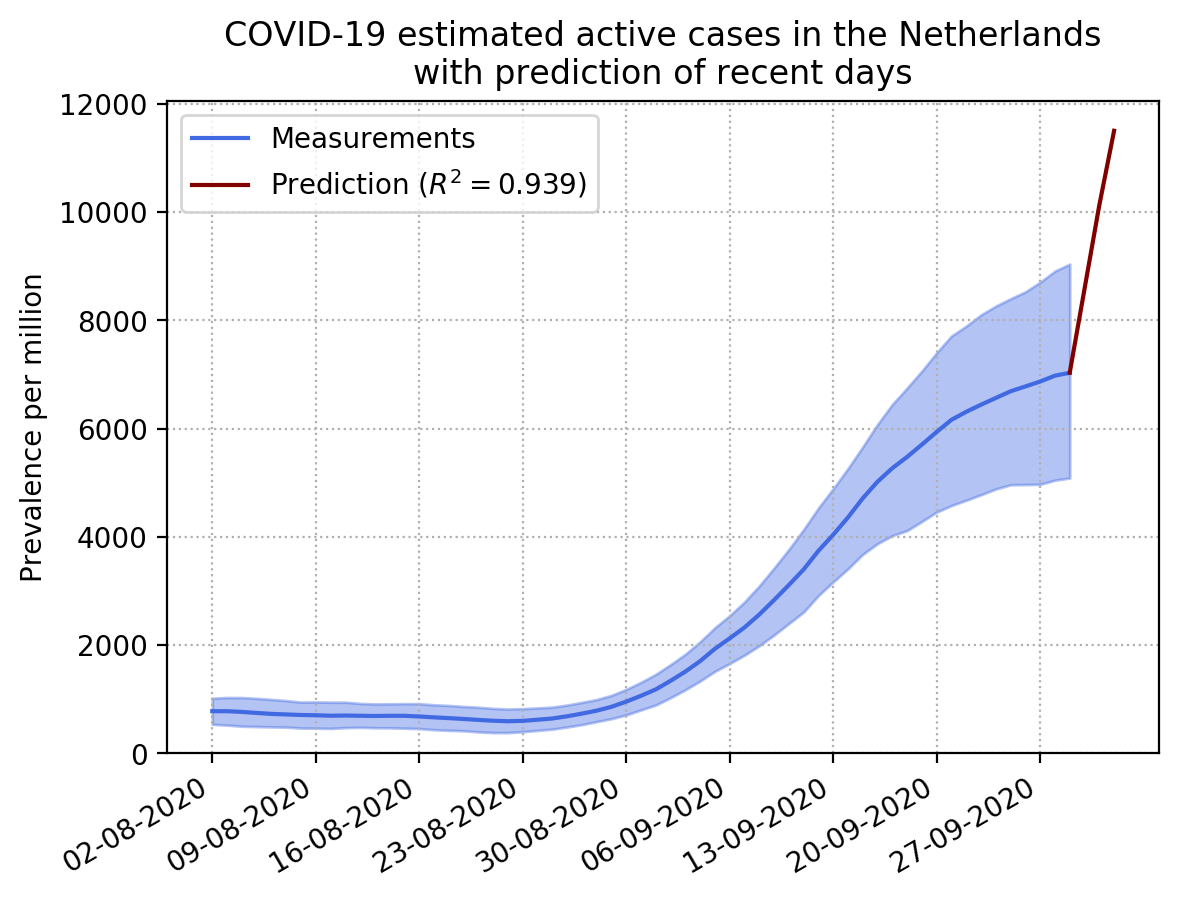
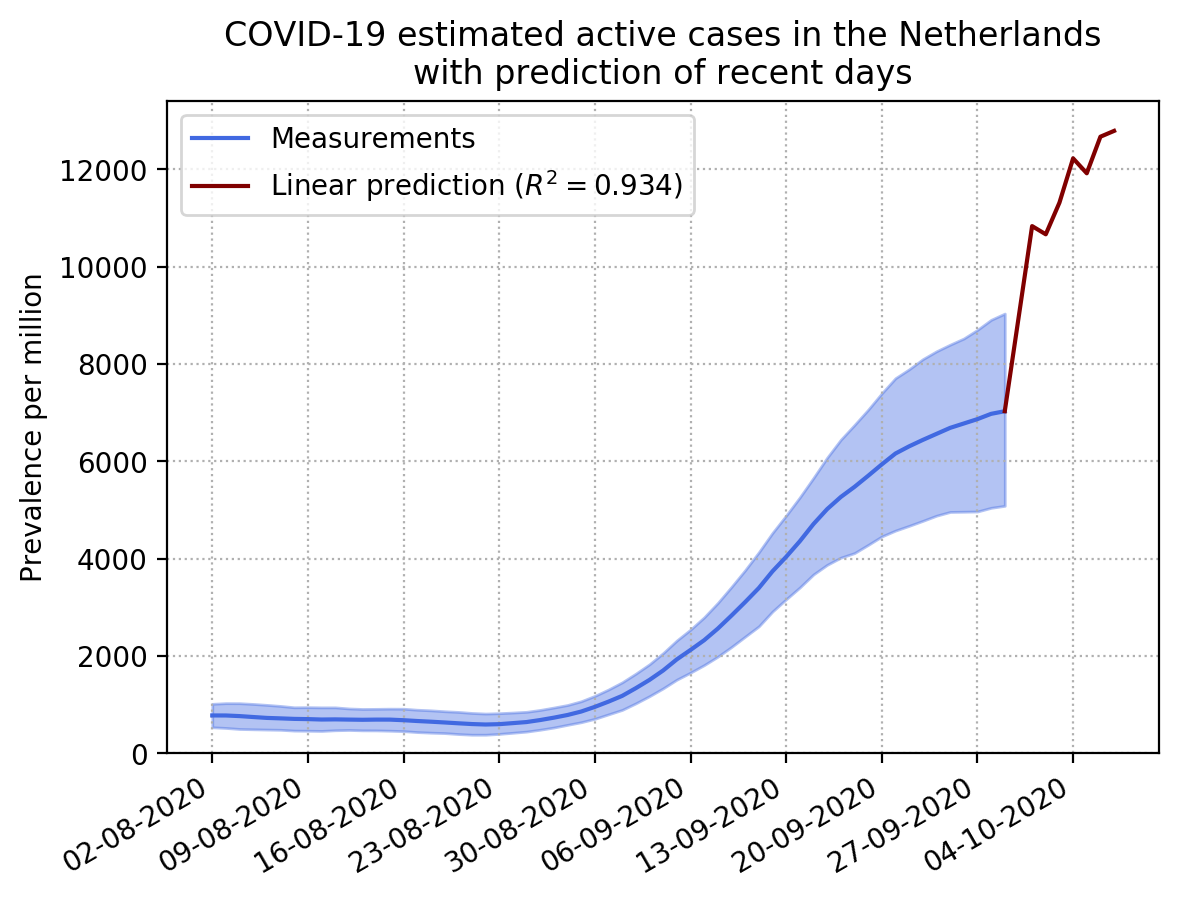
Updated the predictions of the prevalence by using the test positivity ratio

diff --git a/model_coronavirus_supression.py b/model_coronavirus_supression.py
@@ -10,7 +10,7 @@ import urllib.request
 import shutil
 import os, sys
 
-from sklearn.linear_model import Ridge
+from sklearn.linear_model import Ridge, LinearRegression, Lasso
 from sklearn.ensemble import AdaBoostRegressor, RandomForestRegressor
 
 dataloc = './Data/'
@@ -220,7 +220,6 @@ def load_number_of_tests():
 	df_n_tests = df_n_tests.interpolate(method = 'linear')
 
 	return df_n_tests
-
 
 def load_sewage_data(smooth = False, windowsize = 3, shiftdates = False):
 	sewage_url = 'https://data.rivm.nl/covid-19/COVID-19_rioolwaterdata.csv'
@@ -824,6 +823,7 @@ def estimate_recent_prevalence():
 	Estimate the recent prevalence based on the test positivity ratio
 	"""
 	df_daily_covid = load_daily_covid()
+	df_n_tests = load_number_of_tests()
 	df_prevalence, df_R0 = load_prevalence_R0_data()
 	df_sewage = load_sewage_data(smooth = True, shiftdates = False)
 
@@ -834,7 +834,7 @@ def estimate_recent_prevalence():
 
 	### correct for the delay between the onset of symptoms and the result of the test
 	#for source of incubation period, see the readme
-	incubation_period = 8.3 #days
+	incubation_period = 6 #days
 	#test delay determined from anecdotal evidence
 	test_delay = 3 #days
 
@@ -848,6 +848,10 @@ def estimate_recent_prevalence():
 
 	#merge testing and sewage data
 	df_predictors = df_daily_covid.merge(df_sewage[['RNA_per_ml_smooth']], right_index = True, left_index = True)
+	df_predictors = df_predictors.merge(df_n_tests[['Number_of_tests']], right_index = True, left_index = True)
+
+	#determine test positivity ratio
+	df_predictors['Test_pos_ratio'] = df_predictors['Total_reported']/df_predictors['Number_of_tests']
 
 	#select second wave of infections with the high test rate, but stop at the
 	#section where the prevalence flattens (seems unrealistic)
@@ -855,6 +859,7 @@ def estimate_recent_prevalence():
 	enddate = '2020-09-30'
 	df_predictors_sel = df_predictors.loc[(df_predictors.index > startdate) & (df_predictors.index < enddate)]
 	df_prevalence_sel = df_prevalence.loc[(df_prevalence.index > startdate) & (df_prevalence.index < enddate)]
+
 
 	#discard days with too low number of positive tests per million for determining the correlation
 	test_pos_threshold = 40
@@ -865,17 +870,22 @@ def estimate_recent_prevalence():
 	df_predictors_cor = df_predictors_sel.loc[df_predictors_sel.index > startdate_for_cor]
 	df_prevalence_cor = df_prevalence_sel.loc[df_prevalence_sel.index > startdate_for_cor]
 
-	'''
-	### determine correlation under the assumption that the testing environment
-	### so the number of tests, peoples readyness to test etc do not change
-	popt, perr, r_squared = fit_model(linear_model,
-						df_daily_covid_cor['Total_per_million'],
-						df_prevalence_cor['prev_avg'])
-	'''
 	parameters_used = [
-	'Total_per_million',
+	'Test_pos_ratio',
 	'RNA_per_ml_smooth'
 	]
+
+	'''
+	fig, ax1 = plt.subplots()
+
+	ax2 = ax1.twinx()
+
+	ax1.plot(df_predictors_cor.index, df_predictors_cor['Test_pos_ratio'], color = 'maroon')
+	ax2.plot(df_prevalence_cor.index, df_prevalence_cor['prev_avg'])
+
+	plt.savefig('test.png')
+	plt.close()
+	'''
 
 	### get data into the shape required for sklearn functions
 	X = dataframes_to_NDarray(df_predictors_cor, parameters_used)
@@ -884,7 +894,9 @@ def estimate_recent_prevalence():
 	weight = 1/np.array(df_prevalence_cor['prev_abs_error'])
 
 	### apply regression
-	clf = Ridge(alpha = 1.)
+	# clf = Ridge(alpha = 1.)
+	clf = LinearRegression()
+	# clf = AdaBoostRegressor()
 	clf.fit(X, Y, sample_weight = weight)
 
 	r_squared = clf.score(X, Y, sample_weight = weight)
@@ -922,6 +934,7 @@ def estimate_recent_prevalence():
 	# df_predictors_pred['Prev_pred'] = linear_model(df_daily_covid_pred['Total_per_million'], *popt)
 	df_predictors_pred['Prev_pred'] = clf.predict(Xpred)
 
+	print(df_predictors_pred.tail())
 
 	#append the last data point from the real data
 	df_prevalence_pred = df_predictors_pred[['Prev_pred']]
@@ -938,7 +951,7 @@ def estimate_recent_prevalence():
 	ax.fill_between(df_prevalence_sel.index, df_prevalence_sel['prev_low'], df_prevalence_sel['prev_up'], alpha = 0.4, color = 'royalblue')
 
 	#predictions
-	ax.plot(df_prevalence_pred.index, df_prevalence_pred['Prev_pred'], label = f'Prediction ($R^2 = {r_squared:0.03f}$)', color = 'maroon')
+	ax.plot(df_prevalence_pred.index, df_prevalence_pred['Prev_pred'], label = f'Linear prediction ($R^2 = {r_squared:0.03f}$)', color = 'maroon')
 
 	ax.grid(linestyle = ':')
 
@@ -969,13 +982,13 @@ def main():
 
 	# estimate_recent_R()
 
-	# estimate_recent_prevalence()
+	estimate_recent_prevalence()
 
 	# plot_prevalence_R()
 
 	# plot_mobility()
 
-	plot_daily_results()
+	# plot_daily_results()
 
 	# plot_sewage()
 
